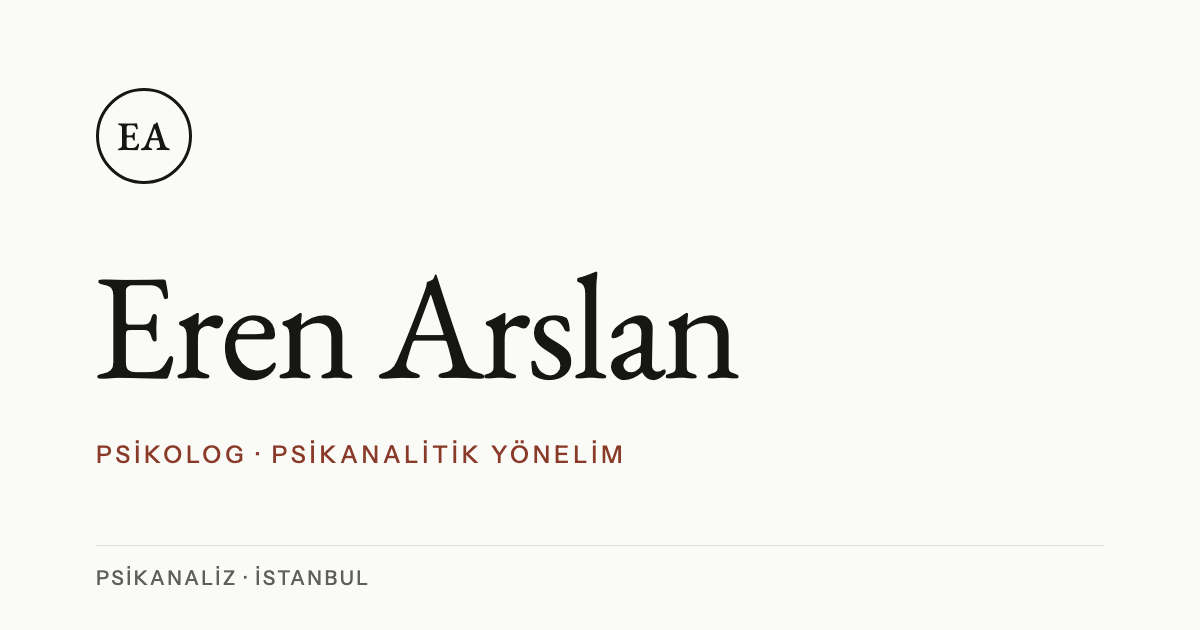
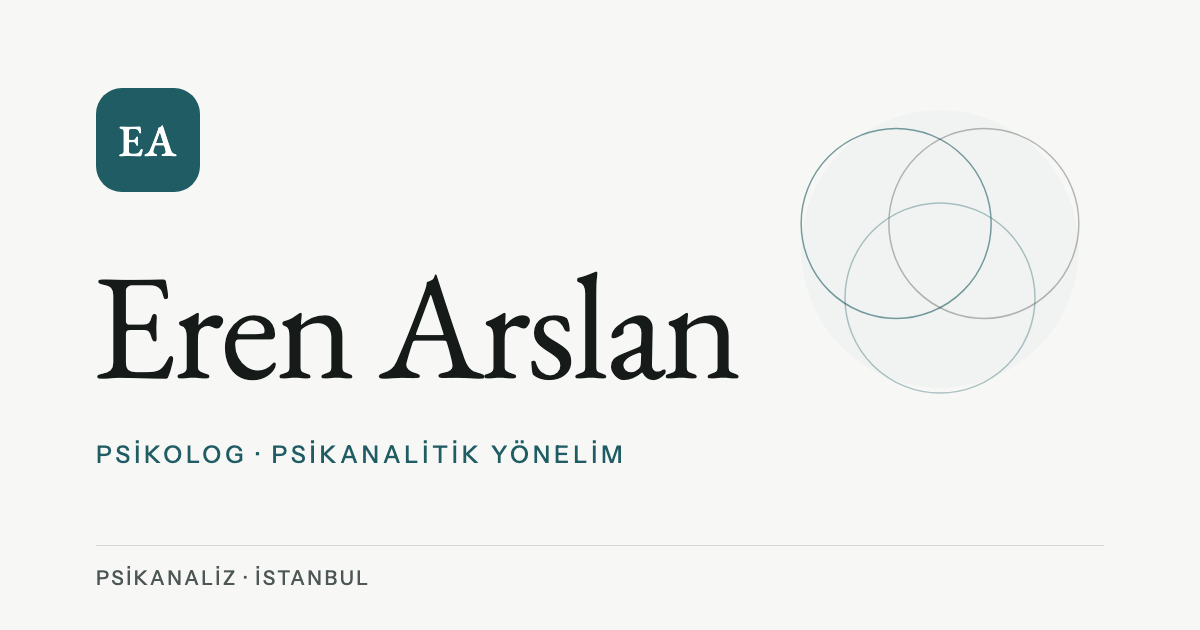
wip: lighter tiles, no rings on mobile, tap-size fix and design options page
Not merged yet: the petrol palette and badge logo in this branch were
rejected and will be replaced after the client picks a color and logo
from docs/geri-bildirim/tasarim-onerileri.html. Keeps: lighter tile
tone, rings hidden on mobile, 24px slider dot targets, new OG image
pipeline.

diff --git a/docs/geri-bildirim/tasarim-onerileri.html b/docs/geri-bildirim/tasarim-onerileri.html
@@ -1,0 +1,149 @@
+<!doctype html>
+<html lang="tr">
+<head>
+<meta charset="utf-8">
+<meta name="viewport" content="width=device-width, initial-scale=1">
+<title>Renk ve logo önerileri — Eren Arslan</title>
+<link rel="preconnect" href="https://fonts.googleapis.com">
+<link rel="preconnect" href="https://fonts.gstatic.com" crossorigin>
+<link href="https://fonts.googleapis.com/css2?family=EB+Garamond:ital,wght@0,400;0,500;1,400&family=Instrument+Sans:wght@400;500&display=swap" rel="stylesheet">
+<style>
+  :root { font-family: 'Instrument Sans', system-ui, sans-serif; color: #161b1a; background: #ececea; }
+  * { box-sizing: border-box; margin: 0; }
+  body { padding: 32px 20px 80px; }
+  .wrap { max-width: 1180px; margin: 0 auto; }
+  h1 { font: 400 40px/1.1 'EB Garamond', serif; letter-spacing: -.01em; }
+  h2 { font: 400 28px/1.2 'EB Garamond', serif; margin: 56px 0 8px; }
+  .lead { color: #55554f; margin-top: 10px; max-width: 70ch; line-height: 1.6; }
+  .grid { display: grid; gap: 24px; margin-top: 24px; }
+  .g2 { grid-template-columns: repeat(auto-fit, minmax(420px, 1fr)); }
+  .g4 { grid-template-columns: repeat(auto-fit, minmax(250px, 1fr)); }
+
+  /* ---- temalar ---- */
+  .t-a { --paper:#f6f7f8; --tile:#eef0f3; --line:#d6dae0; --ink:#151a24; --soft:#4b5566; --brand:#243b6b; --surface:#e4e8ee; }
+  .t-b { --paper:#f8f6f7; --tile:#f1edef; --line:#ddd5da; --ink:#1d1519; --soft:#5a4e55; --brand:#5b2d4f; --surface:#e9e2e6; }
+  .t-c { --paper:#f6f7f3; --tile:#eef1ea; --line:#d5dbcf; --ink:#171c17; --soft:#4f594f; --brand:#3e6650; --surface:#e4e9de; }
+  .t-d { --paper:#f7f6f3; --tile:#efede8; --line:#d8d5ce; --ink:#1a1a18; --soft:#5a5852; --brand:#2b2b28; --surface:#e6e3dc; }
+
+  .site { background: var(--paper); color: var(--ink); border: 1px solid #c9c9c4; border-radius: 6px; overflow: hidden; font-family: 'EB Garamond', serif; }
+  .label { font: 500 11px/1 'Instrument Sans', sans-serif; letter-spacing: .16em; text-transform: uppercase; }
+  .hdr { display:flex; align-items:center; justify-content:space-between; padding: 16px 24px; border-bottom: 1px solid var(--line); }
+  .nav { display:flex; gap: 18px; }
+  .nav span { composes: label; }
+  .pill { display:inline-flex; gap:2px; padding:3px; border:1px solid var(--line); background:var(--tile); border-radius:999px; }
+  .pill b { font: 500 10px/1 'Instrument Sans'; letter-spacing:.16em; padding:7px 11px; border-radius:999px; }
+  .pill b.on { background: var(--brand); color:#fff; }
+  .hero { padding: 40px 24px 36px; }
+  .kicker { color: var(--brand); }
+  .name { font-size: 62px; line-height: .98; letter-spacing: -.02em; margin: 14px 0 12px; }
+  .desc { color: var(--soft); font-size: 19px; line-height: 1.55; max-width: 34ch; }
+  .btn { display:inline-block; margin-top: 20px; background: var(--brand); color:#fff; padding: 13px 20px; border-radius: 2px; }
+  .cards { display:grid; grid-template-columns: 1fr 1fr; gap: 14px; padding: 0 24px 28px; }
+  .card { background: var(--tile); border:1px solid var(--line); border-radius: 3px; padding: 16px; }
+  .card .t { font-size: 20px; margin: 10px 0 6px; }
+  .card p { color: var(--soft); font-size: 15px; line-height: 1.45; }
+  .foot { background: var(--surface); border-top:1px solid var(--line); padding: 14px 24px; display:flex; justify-content:space-between; color: var(--soft); }
+  .tag { margin-top: 12px; font: 500 12px/1.5 'Instrument Sans'; color:#55554f; }
+  .tag b { color:#161b1a; }
+  .swatches { display:flex; gap:6px; margin-top:10px; }
+  .sw { width:34px; height:34px; border-radius:4px; border:1px solid rgba(0,0,0,.12); }
+
+  /* ---- logolar ---- */
+  .logo-box { background: var(--paper); border:1px solid #c9c9c4; border-radius:6px; padding: 28px 24px; color: var(--ink); }
+  .lg { display:flex; align-items:center; gap:12px; font-family:'EB Garamond', serif; }
+  .lg1 .n { font-size: 30px; letter-spacing: -.01em; line-height: 1; }
+  .lg1 .r { display:block; margin-top:7px; }
+  .lg2 .m { font-size: 30px; letter-spacing: .06em; line-height: 1; padding-bottom: 4px; border-bottom: 2px solid var(--brand); }
+  .lg2 .n { font-size: 26px; letter-spacing: -.01em; }
+  .lg3 .psi { font-size: 42px; line-height: 1; color: var(--brand); font-family: 'EB Garamond', serif; }
+  .lg3 .n { font-size: 28px; letter-spacing: -.01em; line-height:1; }
+  .lg4 .n { font-size: 32px; letter-spacing: -.015em; line-height:1; }
+  .lg4 .dot { display:inline-block; width:7px; height:7px; border-radius:50%; background: var(--brand); margin-left:3px; }
+  .fav { display:flex; gap:10px; align-items:center; margin-top:18px; color:#55554f; font: 12px 'Instrument Sans'; }
+  .fav i { width:32px; height:32px; display:inline-flex; align-items:center; justify-content:center; font-style:normal; font-family:'EB Garamond', serif; font-size:19px; border:1px solid var(--line); border-radius:6px; background:#fff; color: var(--brand); }
+  .switch { display:flex; gap:8px; margin: 16px 0 0; flex-wrap: wrap; }
+  .switch button { font: 500 12px 'Instrument Sans'; padding: 8px 14px; border-radius: 999px; border: 1px solid #b5b5ae; background:#fff; cursor:pointer; }
+  .switch button[aria-pressed="true"] { background:#161b1a; color:#fff; border-color:#161b1a; }
+  .note { margin-top: 56px; padding: 18px 20px; border-left: 3px solid #161b1a; background:#fff; color:#33332f; line-height:1.6; max-width: 80ch; }
+</style>
+</head>
+<body>
+<div class="wrap">
+  <h1>Renk ve logo önerileri</h1>
+  <p class="lead">Aşağıdaki dört renk ailesi aynı sayfa parçasıyla gösteriliyor (menü, ad, düğme, kartlar, footer). Hepsi açık tema, hepsi tek vurgu rengi ve hepsi yazı için yeterli kontrasta sahip. Beğendiğiniz rengin <b>harfini</b> ve logonun <b>numarasını</b> söylemeniz yeterli (örn. "A ve 3").</p>
+
+  <h2>Renk önerileri</h2>
+  <div class="grid g2">
+    <div>
+      <div class="site t-a">
+        <div class="hdr"><div class="lg lg1"><div><span class="n">Eren Arslan</span><span class="label r" style="color:var(--soft)">Psikolog</span></div></div><div style="display:flex;gap:16px;align-items:center"><span class="label">Anasayfa</span><span class="label" style="color:var(--brand)">Hakkımda</span><span class="pill"><b class="on">TR</b><b>FR</b></span></div></div>
+        <div class="hero"><div class="label kicker">Psikolog · Psikanaliz formasyonunda</div><div class="name">Eren Arslan</div><div class="desc">Psikanalitik yönelimle çalışan bir psikolog. İstanbul'da yüz yüze ve çevrim içi.</div><span class="btn label">Hakkımda</span></div>
+        <div class="cards"><div class="card"><span class="label kicker">Yazı</span><div class="t">Psikanalizde Dinlemek</div><p>Söylenenin içinde konuşan başka bir şeye yer açmak.</p></div><div class="card"><span class="label kicker">Çeviri</span><div class="t">Ayna Evresi Üzerine</div><p>Yalnızca özet burada, tam metin dış kaynakta.</p></div></div>
+        <div class="foot"><span>© 2026 Eren Arslan</span><span class="label">Yukarı ↑</span></div>
+      </div>
+      <div class="tag"><b>A · Lacivert</b> (öneri) — akademik, güvenilir, sakin; makale ve çeviri ağırlıklı bir site için doğal. <span style="color:#555">#243B6B</span></div>
+      <div class="swatches"><div class="sw" style="background:#f6f7f8"></div><div class="sw" style="background:#eef0f3"></div><div class="sw" style="background:#243b6b"></div><div class="sw" style="background:#151a24"></div></div>
+    </div>
+
+    <div>
+      <div class="site t-b">
+        <div class="hdr"><div class="lg lg1"><div><span class="n">Eren Arslan</span><span class="label r" style="color:var(--soft)">Psikolog</span></div></div><div style="display:flex;gap:16px;align-items:center"><span class="label">Anasayfa</span><span class="label" style="color:var(--brand)">Hakkımda</span><span class="pill"><b class="on">TR</b><b>FR</b></span></div></div>
+        <div class="hero"><div class="label kicker">Psikolog · Psikanaliz formasyonunda</div><div class="name">Eren Arslan</div><div class="desc">Psikanalitik yönelimle çalışan bir psikolog. İstanbul'da yüz yüze ve çevrim içi.</div><span class="btn label">Hakkımda</span></div>
+        <div class="cards"><div class="card"><span class="label kicker">Yazı</span><div class="t">Psikanalizde Dinlemek</div><p>Söylenenin içinde konuşan başka bir şeye yer açmak.</p></div><div class="card"><span class="label kicker">Çeviri</span><div class="t">Ayna Evresi Üzerine</div><p>Yalnızca özet burada, tam metin dış kaynakta.</p></div></div>
+        <div class="foot"><span>© 2026 Eren Arslan</span><span class="label">Yukarı ↑</span></div>
+      </div>
+      <div class="tag"><b>B · Erik (koyu mor)</b> — derinlik, düşünsellik; psikanalize en yakın ve en akılda kalıcı seçenek, psikolog sitelerinde nadir. <span style="color:#555">#5B2D4F</span></div>
+      <div class="swatches"><div class="sw" style="background:#f8f6f7"></div><div class="sw" style="background:#f1edef"></div><div class="sw" style="background:#5b2d4f"></div><div class="sw" style="background:#1d1519"></div></div>
+    </div>
+
+    <div>
+      <div class="site t-c">
+        <div class="hdr"><div class="lg lg1"><div><span class="n">Eren Arslan</span><span class="label r" style="color:var(--soft)">Psikolog</span></div></div><div style="display:flex;gap:16px;align-items:center"><span class="label">Anasayfa</span><span class="label" style="color:var(--brand)">Hakkımda</span><span class="pill"><b class="on">TR</b><b>FR</b></span></div></div>
+        <div class="hero"><div class="label kicker">Psikolog · Psikanaliz formasyonunda</div><div class="name">Eren Arslan</div><div class="desc">Psikanalitik yönelimle çalışan bir psikolog. İstanbul'da yüz yüze ve çevrim içi.</div><span class="btn label">Hakkımda</span></div>
+        <div class="cards"><div class="card"><span class="label kicker">Yazı</span><div class="t">Psikanalizde Dinlemek</div><p>Söylenenin içinde konuşan başka bir şeye yer açmak.</p></div><div class="card"><span class="label kicker">Çeviri</span><div class="t">Ayna Evresi Üzerine</div><p>Yalnızca özet burada, tam metin dış kaynakta.</p></div></div>
+        <div class="foot"><span>© 2026 Eren Arslan</span><span class="label">Yukarı ↑</span></div>
+      </div>
+      <div class="tag"><b>C · Adaçayı (koyu yeşil)</b> — huzur ve doğallık; terapi sitelerinde en yaygın yön, daha sıcak ve yumuşak. <span style="color:#555">#3E6650</span></div>
+      <div class="swatches"><div class="sw" style="background:#f6f7f3"></div><div class="sw" style="background:#eef1ea"></div><div class="sw" style="background:#3e6650"></div><div class="sw" style="background:#171c17"></div></div>
+    </div>
+
+    <div>
+      <div class="site t-d">
+        <div class="hdr"><div class="lg lg1"><div><span class="n">Eren Arslan</span><span class="label r" style="color:var(--soft)">Psikolog</span></div></div><div style="display:flex;gap:16px;align-items:center"><span class="label">Anasayfa</span><span class="label" style="color:var(--brand)">Hakkımda</span><span class="pill"><b class="on">TR</b><b>FR</b></span></div></div>
+        <div class="hero"><div class="label kicker">Psikolog · Psikanaliz formasyonunda</div><div class="name">Eren Arslan</div><div class="desc">Psikanalitik yönelimle çalışan bir psikolog. İstanbul'da yüz yüze ve çevrim içi.</div><span class="btn label">Hakkımda</span></div>
+        <div class="cards"><div class="card"><span class="label kicker">Yazı</span><div class="t">Psikanalizde Dinlemek</div><p>Söylenenin içinde konuşan başka bir şeye yer açmak.</p></div><div class="card"><span class="label kicker">Çeviri</span><div class="t">Ayna Evresi Üzerine</div><p>Yalnızca özet burada, tam metin dış kaynakta.</p></div></div>
+        <div class="foot"><span>© 2026 Eren Arslan</span><span class="label">Yukarı ↑</span></div>
+      </div>
+      <div class="tag"><b>D · Taş ve kömür (renksiz)</b> — en sade ve en "metin odaklı"; renk yok, yalnızca tonlar. Müşterinin "sade" isteğine en yakını. <span style="color:#555">#2B2B28</span></div>
+      <div class="swatches"><div class="sw" style="background:#f7f6f3"></div><div class="sw" style="background:#efede8"></div><div class="sw" style="background:#2b2b28"></div><div class="sw" style="background:#1a1a18"></div></div>
+    </div>
+  </div>
+
+  <h2>Logo önerileri</h2>
+  <p class="lead">Dolgulu rozet kaldırıldı. Aşağıdakiler kutusuz, yazı ağırlıklı seçenekler. Renk seçimini üstteki düğmelerle logo üzerinde de deneyebilirsiniz.</p>
+  <div class="switch" id="sw">
+    <button data-t="t-a" aria-pressed="true">A Lacivert</button>
+    <button data-t="t-b" aria-pressed="false">B Erik</button>
+    <button data-t="t-c" aria-pressed="false">C Adaçayı</button>
+    <button data-t="t-d" aria-pressed="false">D Taş</button>
+  </div>
+  <div class="grid g4" id="logos">
+    <div class="logo-box t-a"><div class="lg lg1"><div><span class="n">Eren Arslan</span><span class="label r" style="color:var(--soft)">Psikolog</span></div></div><div class="fav"><i>EA</i> favicon: “EA” harfleri</div><div class="tag"><b>1 · Yazı logosu</b> — yalnızca ad ve altında unvan. En sade, en zamansız.</div></div>
+    <div class="logo-box t-a"><div class="lg lg2"><span class="m">EA</span><span class="n">Eren Arslan</span></div><div class="fav"><i>EA</i> favicon: “EA” harfleri</div><div class="tag"><b>2 · EA harfleri ve çizgi</b> — kutusuz monogram, altında ince vurgu çizgisi.</div></div>
+    <div class="logo-box t-a"><div class="lg lg3"><span class="psi">Ψ</span><span class="n">Eren Arslan</span></div><div class="fav"><i>Ψ</i> favicon: psi harfi</div><div class="tag"><b>3 · Psi (Ψ) ve ad</b> — psikolojinin evrensel simgesi; hemen "psikolog" dedirtir, ama genel.</div></div>
+    <div class="logo-box t-a"><div class="lg lg4"><span class="n">Eren Arslan<span class="dot"></span></span></div><div class="fav"><i>EA</i> favicon: “EA” harfleri</div><div class="tag"><b>4 · Noktalı ad</b> — adın sonunda küçük bir vurgu noktası; ince, modern, unvansız.</div></div>
+  </div>
+
+  <div class="note"><b>Benim önerim:</b> renk için <b>A (Lacivert)</b>, daha özgün olsun derseniz <b>B (Erik)</b>. Logo için <b>1 (yazı logosu)</b>; psikolog olduğu hemen anlaşılsın isterseniz <b>3 (Ψ)</b>. Halkalı süs şekilleri yalnızca geniş ekranda kalacak, mobilde olmayacak.</div>
+</div>
+<script>
+  const boxes = document.querySelectorAll('#logos .logo-box');
+  document.querySelectorAll('#sw button').forEach(function (b) {
+    b.addEventListener('click', function () {
+      document.querySelectorAll('#sw button').forEach(function (x) { x.setAttribute('aria-pressed', x === b ? 'true' : 'false'); });
+      boxes.forEach(function (box) { box.className = 'logo-box ' + b.dataset.t; });
+    });
+  });
+</script>
+</body>
+</html>

diff --git a/components/site/site-header.tsx b/components/site/site-header.tsx
@@ -5,21 +5,29 @@ import { dict, type Locale } from "@/lib/i18n"
 import { siteConfig } from "@/lib/site"
 
 export function SiteHeader({ locale }: { locale: Locale }) {
+  const t = dict[locale]
+
   return (
     <header className="border-b border-line bg-paper">
       <div className="mx-auto flex min-h-[4.5rem] w-full max-w-6xl items-center justify-between gap-x-6 px-5 py-3 sm:px-8">
         <Link
-          href={dict[locale].home}
-          className="group flex items-center gap-3 focus-visible:outline-2 focus-visible:outline-offset-4 focus-visible:outline-anthracite"
+          href={t.home}
+          className="group flex items-center gap-3 focus-visible:outline-2 focus-visible:outline-offset-4 focus-visible:outline-brand"
         >
+          {/* dolgulu, yuvarlak köşeli rozet; adın altında küçük unvan satırı */}
           <span
             aria-hidden
-            className="flex size-11 shrink-0 items-center justify-center rounded-full border-[1.5px] border-anthracite font-serif-site text-lg leading-none font-medium tracking-wide transition-colors group-hover:border-brand group-hover:text-brand"
+            className="flex size-11 shrink-0 items-center justify-center rounded-xl bg-brand font-serif-site text-lg leading-none font-medium tracking-wide text-on-brand transition-transform duration-300 group-hover:-rotate-6"
           >
             EA
           </span>
-          <span className="font-serif-site text-xl leading-none tracking-tight sm:text-2xl">
-            {siteConfig.name}
+          <span className="flex flex-col">
+            <span className="font-serif-site text-xl leading-none tracking-tight sm:text-2xl">
+              {siteConfig.name}
+            </span>
+            <span className="label-caps mt-1.5 text-[0.625rem] leading-none text-ink-soft">
+              {t.role}
+            </span>
           </span>
         </Link>
         <div className="flex items-center gap-6 lg:gap-8">

diff --git a/components/site/featured-slider.tsx b/components/site/featured-slider.tsx
@@ -173,7 +173,7 @@ export function FeaturedSlider({
       {/* mobil: oklar yok; kaydırılabilir olduğunu sonraki kartın görünen kısmı, noktalar ve ipucu yazısı gösterir */}
       {total > 1 && (
         <div className="mt-5 flex items-center justify-between gap-4 sm:hidden">
-          <div className="flex items-center gap-2">
+          <div className="-ml-1 flex items-center">
             {items.map((item, position) => (
               <button
                 key={item.id}
@@ -181,10 +181,15 @@ export function FeaturedSlider({
                 aria-label={`${t.featured.goTo} ${position + 1} / ${total}`}
                 aria-current={position === index ? "true" : undefined}
                 onClick={() => goTo(position)}
-                className={`h-2 rounded-full transition-all ${focus} ${
-                  position === index ? "w-6 bg-brand" : "w-2 bg-line hover:bg-ink-soft"
-                }`}
-              />
+                className={`group flex size-6 items-center justify-center ${focus}`}
+              >
+                {/* görünen nokta küçük; dokunma alanı 24 px */}
+                <span
+                  className={`block h-2 rounded-full transition-all ${
+                    position === index ? "w-6 bg-brand" : "w-2 bg-line group-hover:bg-ink-soft"
+                  }`}
+                />
+              </button>
             ))}
           </div>
           {index === 0 && (

diff --git a/components/site/hero.tsx b/components/site/hero.tsx
@@ -29,8 +29,8 @@ export function Hero({
 
   return (
     <section className="relative overflow-hidden">
-      {/* mobilde büyük ve silik bir arka plan; geniş ekranda sağda belirgin */}
-      <Rings className="absolute top-1/2 left-1/2 w-[34rem] max-w-none -translate-x-[38%] -translate-y-1/2 opacity-45 sm:top-1/2 sm:right-[-6rem] sm:left-auto sm:w-[32rem] sm:translate-x-0 sm:opacity-100 lg:right-4 lg:w-[38rem]" />
+      {/* şekil yalnızca geniş ekranda (mobilde yok) */}
+      <Rings className="absolute top-1/2 right-[-6rem] hidden w-[32rem] -translate-y-1/2 sm:block lg:right-4 lg:w-[38rem]" />
       <div className="relative mx-auto flex w-full max-w-6xl flex-col items-start gap-8 px-5 py-16 sm:px-8 sm:py-24 lg:py-32">
         <p className="label-caps text-brand">{t.tagline}</p>
         <h1 className="font-serif-site max-w-4xl text-[clamp(3.5rem,9vw,7.5rem)] leading-[0.95] font-normal tracking-[-0.02em] text-balance">

diff --git a/app/globals.css b/app/globals.css
@@ -207,16 +207,16 @@
 .site {
   --site-serif: var(--font-garamond), Georgia, "Times New Roman", serif;
   --site-sans: var(--font-instrument), system-ui, sans-serif;
-  --site-paper: #f8f7f2;
-  /* kartlar sayfa zemininden belirgin biçimde koyu; footer en koyu ton */
-  --site-tile: #f0ece1;
-  --site-surface: #ebe6d8;
-  --site-ink: #161615;
-  --site-ink-soft: #55554f;
-  --site-line: #d9d5c8;
-  --site-brand: #8a3a28;
+  --site-paper: #f7f8f6;
+  /* kartlar sayfa zemininden hafifçe koyu; footer en koyu ton */
+  --site-tile: #f0f3f1;
+  --site-surface: #e5eae7;
+  --site-ink: #161b1a;
+  --site-ink-soft: #4d5856;
+  --site-line: #d3dad6;
+  --site-brand: #1f5c63;
   --site-on-brand: #ffffff;
-  --site-accent: #161615;
+  --site-accent: #161b1a;
   --site-on-accent: #ffffff;
   --border: var(--site-line);
   --muted-foreground: var(--site-ink-soft);

diff --git a/lib/i18n.ts b/lib/i18n.ts
@@ -21,6 +21,7 @@ export const dict = {
     skip: "İçeriğe atla",
     notFound: { title: "Sayfa bulunamadı", text: "Aradığınız sayfa taşınmış ya da hiç var olmamış olabilir.", button: "Ana sayfaya dön" },
     mobileNavAria: "Mobil menü",
+    role: "Psikolog",
     tagline: "Psikolog · Psikanaliz Formasyonunda",
     cta: {
       title: "Bana Ulaşın",
@@ -74,6 +75,7 @@ export const dict = {
     skip: "Aller au contenu",
     notFound: { title: "Page introuvable", text: "La page demandée a peut-être été déplacée ou n'a jamais existé.", button: "Retour à l'accueil" },
     mobileNavAria: "Menu mobile",
+    role: "Psychologue",
     tagline: "Psychologue · formation psychanalytique en cours",
     cta: {
       title: "Me contacter",

diff --git a/components/site/page-heading.tsx b/components/site/page-heading.tsx
@@ -11,10 +11,10 @@ export function PageHeading({
 }) {
   return (
     <div className="relative flex min-h-[7.5rem] items-center">
-      {/* mobilde başlığın arkasında silik; geniş ekranda küçük bir amblem */}
+      {/* küçük amblem yalnızca geniş ekranda */}
       <Rings
         disc="none"
-        className="absolute top-1/2 -right-16 w-56 -translate-y-1/2 opacity-40 md:right-0 md:w-32 md:opacity-80 lg:right-4"
+        className="absolute top-1/2 right-0 hidden w-32 -translate-y-1/2 opacity-80 md:block lg:right-4"
       />
       <div className="relative flex max-w-3xl flex-col gap-4">
         <Heading className="font-serif-site text-4xl leading-[1.08] font-normal tracking-tight text-balance sm:text-5xl lg:text-6xl">

diff --git a/components/site/contact-cta.tsx b/components/site/contact-cta.tsx
@@ -19,7 +19,7 @@ export function ContactCta({ locale }: { locale: Locale }) {
     >
       <Rings
         disc="paper"
-        className="absolute -bottom-32 -left-40 w-[26rem] opacity-70 sm:-left-24 sm:w-[30rem] lg:left-8"
+        className="absolute -bottom-32 left-8 hidden w-[30rem] opacity-70 sm:block"
       />
       <div className="relative mx-auto flex w-full max-w-6xl flex-col items-center gap-5 px-5 py-16 text-center sm:px-8 sm:py-24">
         <h2

diff --git a/CLAUDE.md b/CLAUDE.md
@@ -61,12 +61,12 @@ Admin (`app/admin`, giriş `/admin`; panel `(panel)` grubunda): Panel, **Hero** 
 
 ## Tasarım kararları (herkese açık site)
 
-- Referans: oguzhannacak.com (açık, editoryal, büyük serif isim, harf aralıklı büyük harfli etiketler). Müşteri notu: "kırık beyaz zemin, tek vurgu rengi, renkli kutu/gradyan yok".
-- Palet (`app/globals.css`, `.site` değişkenleri): zemin `paper #F8F7F2`, **kartlar `tile #F0ECE1` (zeminden belirgin koyu, kenarlık `line #D9D5C8`)**, footer `surface #EBE6D8` (en koyu ton), `ink #161615`, `ink-soft #55554F`. **Tek vurgu `brand #8A3A28`** (paslı kırmızı, Nacak'tan; değiştirmek için yalnızca `--site-brand`). Vurgu: aktif menü, birincil buton (`btn-primary`), tür etiketi, bağlantı çizgisi. **Site yalnızca açık temadır** (koyu mod yok). Koyu dolgulu bloklar yok (yalnızca mobil menü hapı `bg-panel`).
-- Kartlar (`bg-tile`): öne çıkanlar kartları, "Son yazılar" ilk yazı, iletişim kutuları, CTA bandı. Hover: kart hafif yükselir ve kenarlık vurgu olur; menü bağlantılarında `link-slide` alt çizgi animasyonu; liste satırında `bg-tile` ve ok kayması; `prefers-reduced-motion`a uyulur.
-- Header: yuvarlak EA monogramı + "Eren Arslan" yan yana; TR/FR seçici yuvarlak köşeli düğme ("pill", aktif dil vurgu dolgulu).
-- Süs şekli `components/site/rings.tsx` (üç kesişen halka + disk, yalnızca çizgi/düz renk, gradyan yok, `aria-hidden`): hero (masaüstünde sağda, mobilde büyük silik arka plan), sayfa başlıkları (`PageHeading`), CTA bandı. Başlık ölçeği tek: iç sayfa h1 `text-4xl sm:text-5xl lg:text-6xl`, bölüm h2 `text-3xl sm:text-4xl`.
-- Slider mobilde ok göstermez: sonraki kartın görünen kısmı, nokta göstergesi ve ilk kartta "Kaydırın →" ipucu.
+- Referans yapı: oguzhannacak.com (açık, editoryal, büyük serif isim, harf aralıklı büyük harfli etiketler); **renk ve logo bilerek farklı** tutuldu (müşteri/Furkan: örnek siteye çok benzemesin). Müşteri notu: "kırık beyaz zemin, tek vurgu rengi, renkli kutu/gradyan yok".
+- Palet (`app/globals.css`, `.site` değişkenleri): soğuk nötr zemin `paper #F7F8F6`, kartlar `tile #F0F3F1` (zeminden hafif koyu, kenarlık `line #D3DAD6`), footer `surface #E5EAE7`, `ink #161B1A`, `ink-soft #4D5856`. **Tek vurgu `brand #1F5C63` (koyu petrol yeşili)**; değiştirmek için yalnızca `--site-brand` (+ `app/icon.svg` ve OG görseli kaynak HTML'i yeniden üretilmeli). Vurgu: aktif menü, birincil buton (`btn-primary`), logo rozeti, tür etiketi, bağlantı çizgisi. **Site yalnızca açık temadır** (koyu mod yok). Koyu dolgulu bloklar yok (yalnızca mobil menü hapı `bg-panel`).
+- Kartlar (`bg-tile`): öne çıkanlar kartları, "Son yazılar" ilk yazı, iletişim kutuları, CTA bandı. Hover: kart hafif yükselir, kenarlık vurgu olur; menüde `link-slide` alt çizgi animasyonu; liste satırında `bg-tile` ve ok kayması; `prefers-reduced-motion`a uyulur.
+- Logo/header: dolgulu yuvarlak köşeli **brand rozeti "EA"** + "Eren Arslan" ve altında küçük "Psikolog" (`dict.role`); favicon aynı rozet (`app/icon.svg`). TR/FR seçici yuvarlak köşeli düğme ("pill", aktif dil vurgu dolgulu).
+- Süs şekli `components/site/rings.tsx` (üç kesişen halka + disk, yalnızca çizgi/düz renk, `aria-hidden`): **yalnızca geniş ekranda** (mobilde yok): hero, sayfa başlıkları (`PageHeading`), CTA bandı. Başlık ölçeği tek: iç sayfa h1 `text-4xl sm:text-5xl lg:text-6xl`, bölüm h2 `text-3xl sm:text-4xl`.
+- Slider mobilde ok göstermez: sonraki kartın görünen kısmı, nokta göstergesi (dokunma alanı 24 px) ve ilk kartta "Kaydırın →" ipucu.
 - Etiketler (`label-caps`): menü, tür, kategori, "Yukarı": küçük, harf aralıklı büyük harf, sans. Yazı tipleri: başlık ve gövde EB Garamond (`font-serif-site`), UI Instrument Sans (`font-sans-site`). Yazı gövdesi en çok 70ch. "No. 01" bölüm numaraları (`SectionNumber`, Hakkımda'da CSS sayaçlı `h2`); kayıtlara adından türetilen küçük Lacancı matem imzası (`Matheme`: $, a, Φ, S₁, S₂, A, i(a), Σ; süs, `aria-hidden`). Hakkımda alıntı bloğu (`blockquote`: son paragraf yazar adı) tırnak işaretli tipografiyle çizilir. Logo: yuvarlak çerçeveli "EA" monogramı, favicon `app/icon.svg`.
 - Menü dört sayfa (Anasayfa, Hakkımda, Yazılar, İletişim; `components/site/site-nav.tsx`, mobil alt menü aynı listeyi kullanır). TR/FR seçici header'da (`LanguageSwitch`). Tek sade footer: kimlik, kurumsal bağlantılar (`institutions` in `lib/site.ts`), e-posta, Instagram, yasal sayfa linkleri, "Yukarı". Yasal sayfalar (`/kvkk`, `/gizlilik`, `/yasal-uyari`, `components/site/legal-page.tsx`, tarih `LEGAL_UPDATED`) koddadır; **hukuki gözden geçirme gerektiren taslaktır**. Sitede ziyaretçi çerezi/analiz yok; analiz eklenirse çerez onayı ve gizlilik metni güncellenmeli. Sosyal: yalnızca Instagram (`siteConfig.instagram`, admin'de girilmediyse varsayılan).
 - SEO: başlık `siteConfig.title`, iç sayfalar `%s — Eren Arslan`; paylaşım görseli `app/opengraph-image.png` (+ twitter-image, 1200×630, fotoğrafsız; `docs`te kaynağı yok, yeniden üretmek için aynı tasarım); `twitter:card` summary_large_image; ana sayfada Person + WebSite JSON-LD.
